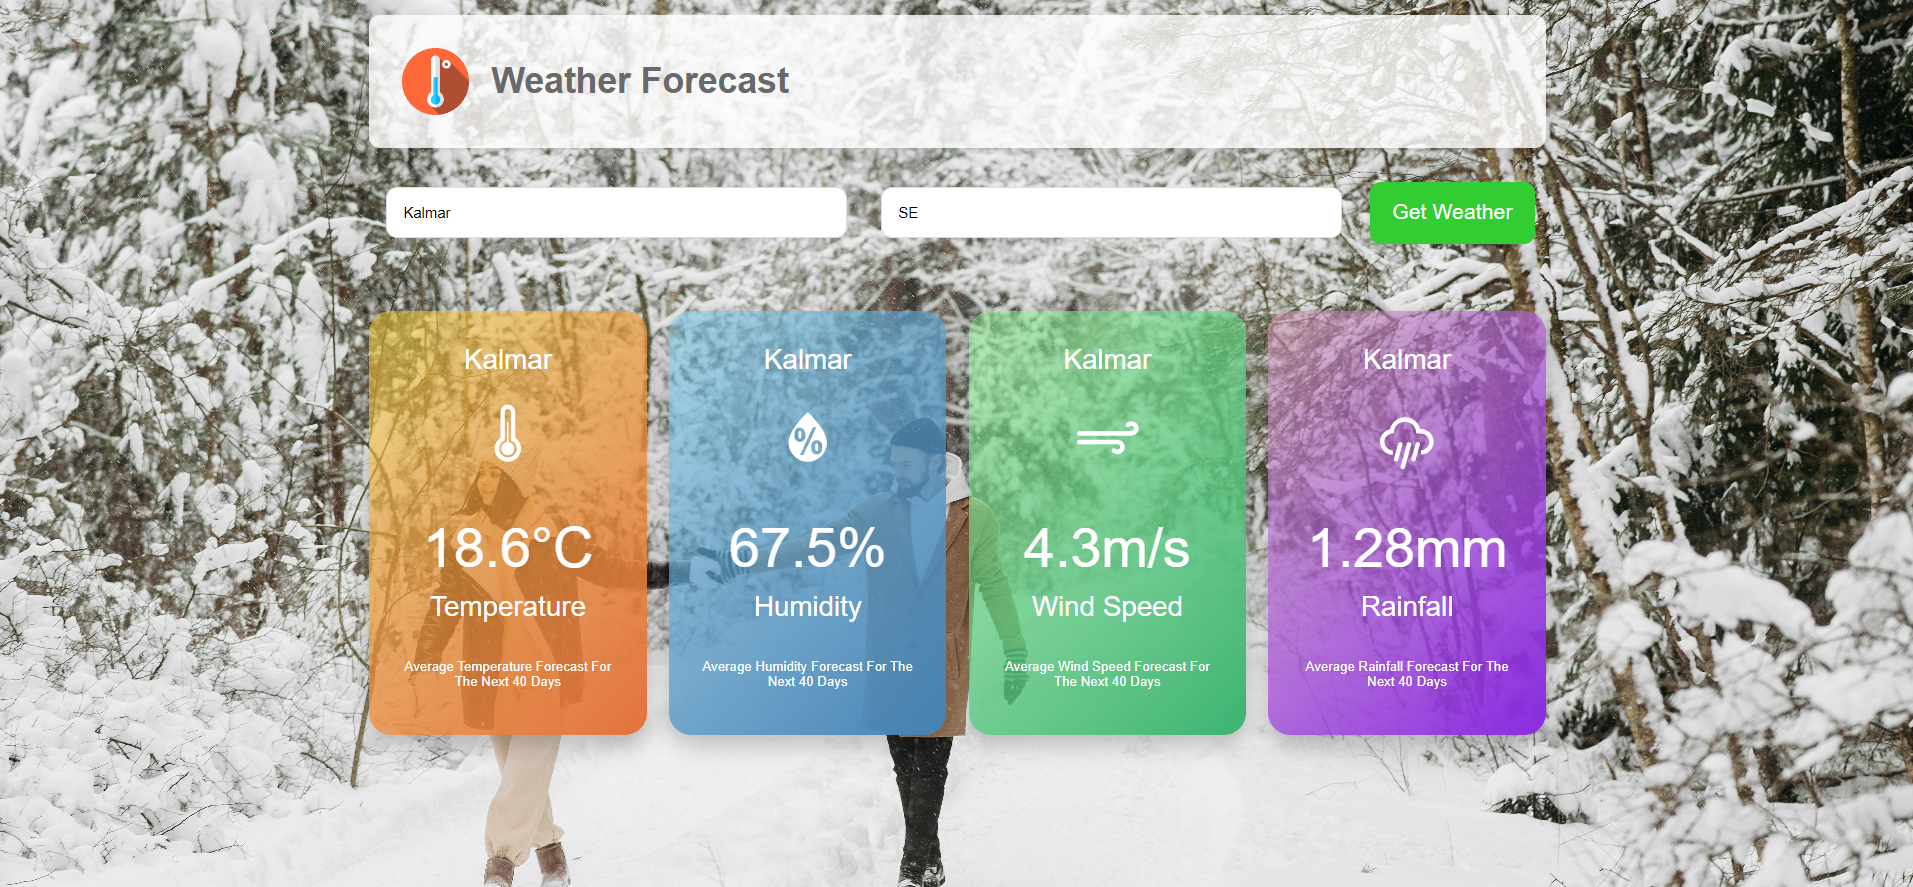
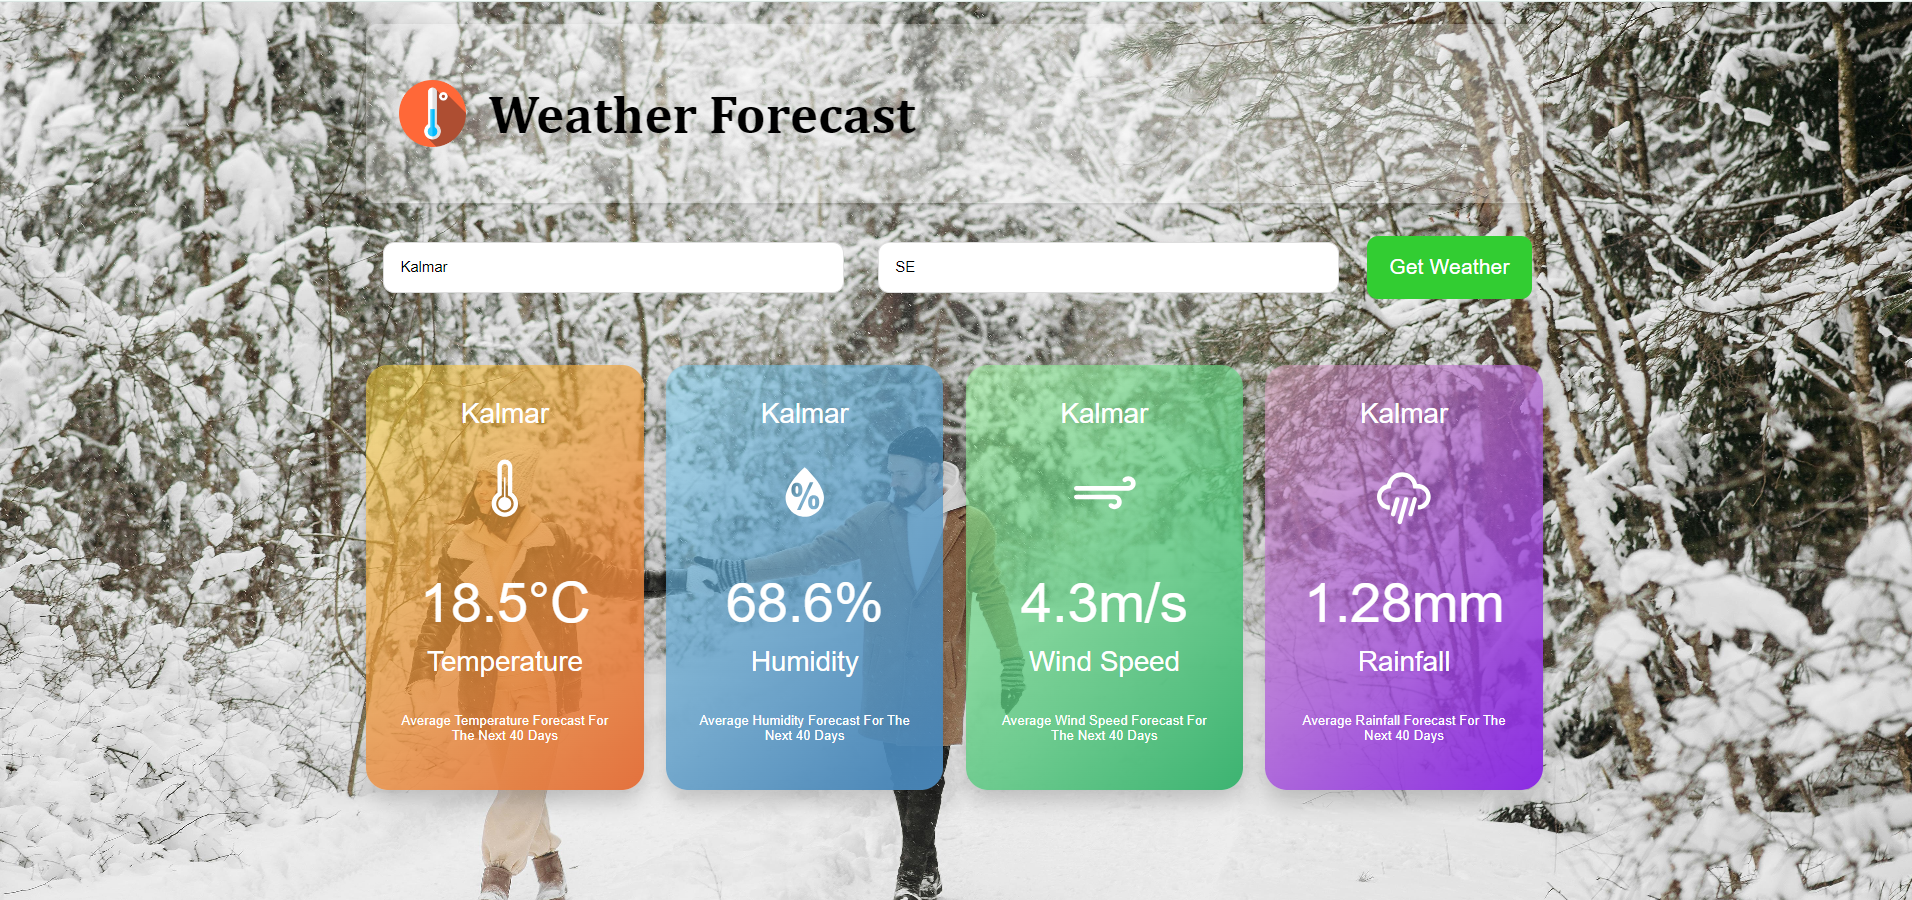
Fixed CSS

diff --git a/weather-app/src/App.css b/weather-app/src/App.css
@@ -24,7 +24,7 @@ body, html {
 }
 
 .App-header {
-  background-color: rgba(255, 255, 255, 0.8);
+  background-color: rgba(255, 255, 255, 0.3);
   color:dimgrey;
   padding: 20px;
   margin-bottom: 20px;
@@ -36,6 +36,10 @@ body, html {
 
 .App-header h1 {
   margin-left: 10px;
+  font-family: Cambria, Cochin, Georgia, Times, 'Times New Roman', serif;
+  font-size: 3em;
+  color:black;
+  font-weight: bold;
 }
 
 .App-logo {
